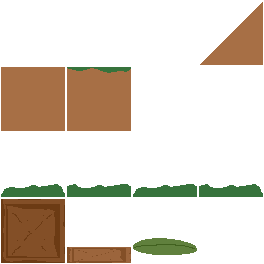
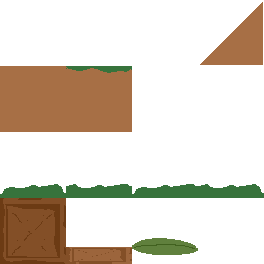
optimizations for screenshots
- Temporarily set game to fixed resolution for screenshot purposes.
- Altered tilemap to reduce edge artifacts (for screenshot purposes).

Changed region(s): [[0.0, 0.697, 1.0, 1.0], [0.0, 0.2424, 0.5152, 0.5152]]

diff --git a/script/main.js b/script/main.js
@@ -121,18 +121,25 @@ function setGameSize() {
     app.view.style.position = "absolute";
     app.view.style.top = "0px";
     app.view.style.left = "0px";
-    app.renderer.resize(window.innerWidth, window.innerHeight);
-    var ratioW = window.innerWidth / gameProperties.preferred_width;
-    var ratioH = window.innerHeight / gameProperties.preferred_height;
+    var wWidth = window.innerWidth;
+    var wHeight = window.innerHeight;
+//#ifdef debug
+    wWidth = 512 * 2;
+    wHeight = 384 * 2;
+    document.body.style.backgroundColor = "#222"
+//#endif
+    app.renderer.resize(wWidth, wHeight);
+    var ratioW = wWidth / gameProperties.preferred_width;
+    var ratioH = wHeight / gameProperties.preferred_height;
     if (ratioW < ratioH) {
-        gameProperties.width = gameProperties.preferred_height * window.innerWidth / window.innerHeight;
+        gameProperties.width = gameProperties.preferred_height * wWidth / wHeight;
         gameProperties.height = gameProperties.preferred_height;
-        gameScene.scale.x = window.innerWidth / gameProperties.width;
+        gameScene.scale.x = wWidth / gameProperties.width;
         gameScene.scale.y = gameScene.scale.x;
     } else {
-        gameProperties.height = gameProperties.preferred_width * window.innerHeight / window.innerWidth;
+        gameProperties.height = gameProperties.preferred_width * wHeight / wWidth;
         gameProperties.width = gameProperties.preferred_width;
-        gameScene.scale.x = window.innerWidth / gameProperties.width;
+        gameScene.scale.x = wWidth / gameProperties.width;
         gameScene.scale.y = gameScene.scale.x;
     }
     if (sceneResizeHook != null) sceneResizeHook();
